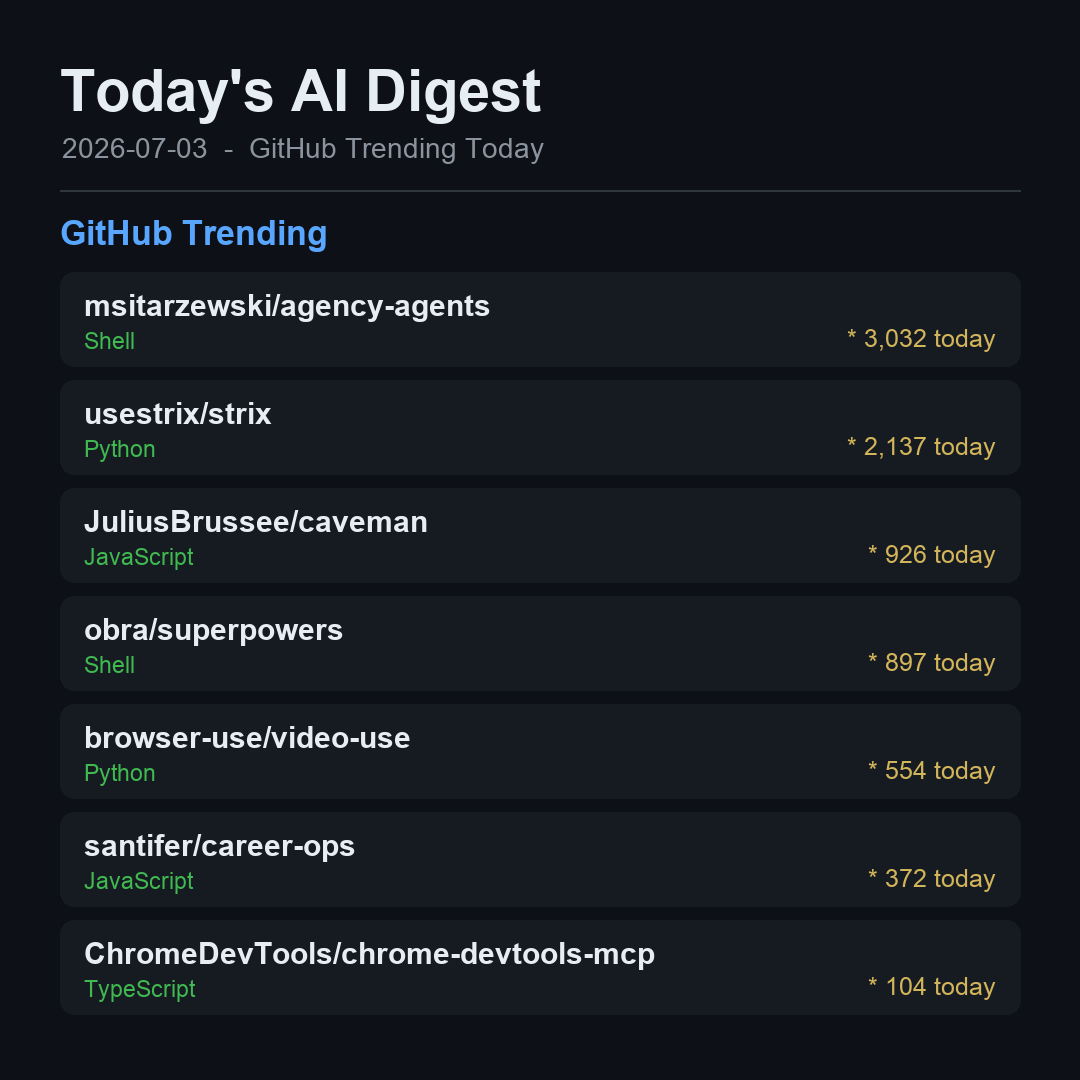
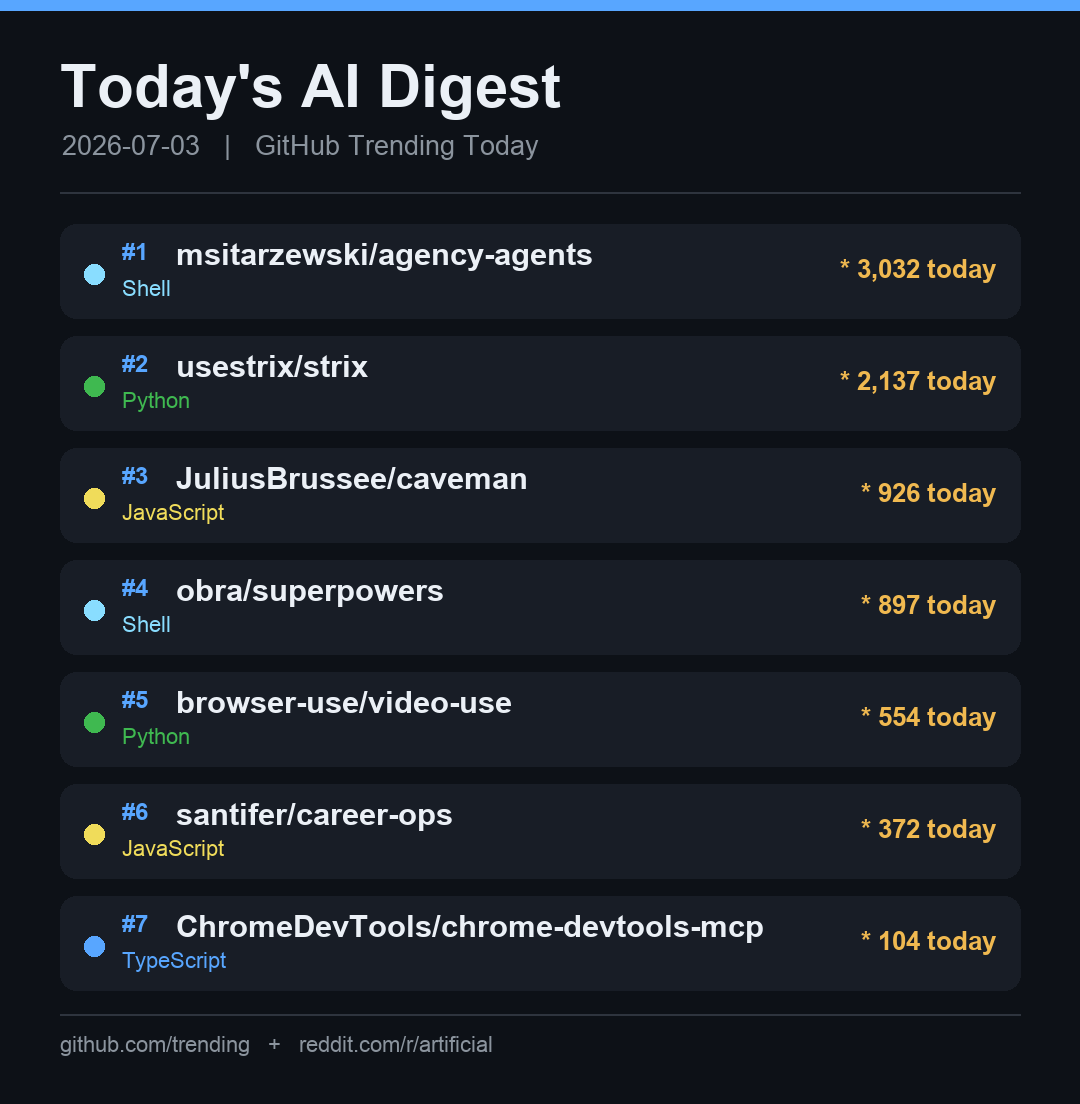
Improve readability: medal-ranked digest, dividers, blockquote, richer card
- Telegram message now uses medals, rule lines, code tags and a blockquote
- Card gets a top accent bar, per-language colour dots and rank badges
- Regenerate preview image from the actual build_card output

diff --git a/digest.py b/digest.py
@@ -125,30 +125,42 @@ def build_card(repos: list[dict], date_iso: str, path: str = "/tmp/digest_card.p
                 return ImageFont.truetype(c, size)
         return ImageFont.load_default()
 
-    bg, card = (13, 17, 23), (22, 27, 34)
-    accent, green = (88, 166, 255), (63, 185, 80)
-    white, muted, gold = (230, 237, 243), (139, 148, 158), (210, 180, 90)
+    bg, card = (13, 17, 23), (24, 29, 38)
+    accent, gold = (88, 166, 255), (240, 185, 80)
+    white, muted = (235, 240, 246), (139, 148, 158)
+    lang_colors = {
+        "Shell": (137, 221, 255), "Python": (63, 185, 80),
+        "JavaScript": (240, 220, 90), "TypeScript": (88, 166, 255),
+        "Go": (0, 173, 216), "Rust": (222, 165, 132), "C++": (243, 75, 125),
+    }
 
     rows = repos[:7]
-    W = 1080
-    H = 300 + len(rows) * 108
+    W, row_h = 1080, 112
+    H = 250 + len(rows) * row_h + 70
     img = Image.new("RGB", (W, H), bg)
     d = ImageDraw.Draw(img)
 
-    d.text((60, 58), "Today's AI Digest", font=font(58, True), fill=white)
-    d.text((62, 132), f"{date_iso}  -  GitHub Trending Today", font=font(28), fill=muted)
-    d.line((60, 190, W - 60, 190), fill=(48, 54, 61), width=2)
-    d.text((60, 214), "GitHub Trending", font=font(34, True), fill=accent)
+    d.rectangle((0, 0, W, 10), fill=accent)  # top accent bar
+    d.text((60, 52), "Today's AI Digest", font=font(60, True), fill=white)
+    d.text((62, 130), f"{date_iso}   |   GitHub Trending Today", font=font(27), fill=muted)
+    d.line((60, 192, W - 60, 192), fill=(46, 52, 62), width=2)
 
-    y = 272
-    for repo in rows:
-        d.rounded_rectangle((60, y, W - 60, y + 94), radius=14, fill=card)
-        d.text((84, y + 16), repo["full"], font=font(30, True), fill=white)
-        d.text((84, y + 56), repo["lang"] or "-", font=font(23), fill=green)
+    y = 224
+    for i, repo in enumerate(rows, 1):
+        dot = lang_colors.get(repo["lang"], muted)
+        d.rounded_rectangle((60, y, W - 60, y + 94), radius=16, fill=card)
+        d.ellipse((84, y + 40, 104, y + 60), fill=dot)          # language color dot
+        d.text((122, y + 14), f"#{i}", font=font(24, True), fill=accent)
+        d.text((176, y + 12), repo["full"], font=font(31, True), fill=white)
+        d.text((122, y + 52), repo["lang"] or "-", font=font(22), fill=dot)
         tag = f"* {repo['stars_today']} today"
-        tw = d.textlength(tag, font=font(25))
-        d.text((W - 84 - tw, y + 52), tag, font=font(25), fill=gold)
-        y += 108
+        tw = d.textlength(tag, font=font(26, True))
+        d.text((W - 84 - tw, y + 30), tag, font=font(26, True), fill=gold)
+        y += row_h
+
+    d.line((60, y + 6, W - 60, y + 6), fill=(46, 52, 62), width=2)
+    d.text((60, y + 24), "github.com/trending   +   reddit.com/r/artificial",
+           font=font(22), fill=muted)
 
     img.save(path)
     return path
@@ -158,33 +170,47 @@ def build_card(repos: list[dict], date_iso: str, path: str = "/tmp/digest_card.p
 # Message
 # --------------------------------------------------------------------------- #
 def build_message(repos: list[dict], posts: list[dict], date_str: str, lang: str) -> str:
+    """Compose a readable Telegram HTML digest.
+
+    Telegram only supports a small tag set (<b>, <i>, <a>, <code>,
+    <blockquote>), so we lean on medals, rule lines and spacing for structure.
+    """
     def esc(s: str) -> str:
         return html.escape(s, quote=False)
 
-    if lang == "en":
-        h_gh, h_rd, h_note = "GitHub Trending", "Reddit r/artificial", "One-liner"
-    else:
-        h_gh, h_rd, h_note = "GitHub Trending", "Reddit r/artificial", "오늘의 한 줄"
+    ko = lang != "en"
+    medals = ["🥇", "🥈", "🥉", "4️⃣", "5️⃣", "6️⃣", "7️⃣"]
+    div = "━" * 16
+    title = "오늘의 AI 다이제스트" if ko else "Today's AI Digest"
+    sub = "아침 브리핑" if ko else "morning brief"
 
-    lines = [f"<b>☀️ Today's AI Digest — {esc(date_str)}</b>", ""]
+    lines = [f"☀️ <b>{title}</b>", f"<i>{esc(date_str)} · {sub}</i>", ""]
 
-    lines.append(f"<b>🔥 {h_gh}</b>")
-    for i, r in enumerate(repos, 1):
-        meta = " · ".join(x for x in [r["lang"], f"★{r['stars_today']}"] if x)
-        lines.append(f'{i}. <a href="{esc(r["url"])}">{esc(r["full"])}</a> · {meta}')
+    lines += [div, "🔥 <b>GitHub Trending</b>", ""]
+    for i, r in enumerate(repos):
+        badge = medals[i] if i < len(medals) else f"{i + 1}."
+        name = r["full"].split("/")[-1]  # repo name only, for readability
+        lines.append(f'{badge} <a href="{esc(r["url"])}"><b>{esc(name)}</b></a>')
+        meta = [f'<code>{esc(r["lang"])}</code>'] if r["lang"] else []
+        meta.append(f'⭐ <b>{esc(r["stars_today"])}</b>')
+        lines.append("    " + "  ·  ".join(meta))
         if r["desc"]:
-            lines.append(esc(r["desc"]))
-    lines.append("")
+            lines.append(f'    └ {esc(r["desc"])}')
+        lines.append("")
 
-    lines.append(f"<b>💬 {h_rd}</b>")
+    lines += [div, "💬 <b>Reddit r/artificial</b>", ""]
     if posts:
         for p in posts:
-            lines.append(f'• <a href="{esc(p["url"])}">{esc(p["title"])}</a>')
+            lines.append(f'▸ <a href="{esc(p["url"])}">{esc(p["title"])}</a>')
     else:
-        lines.append("수집 실패 — 소스 접근 불가" if lang != "en" else "Fetch failed — source unreachable")
-    lines.append("")
+        lines.append("수집 실패 — 소스 접근 불가" if ko else "Fetch failed — source unreachable")
 
-    lines.append(f"<b>📌 {h_note}</b>")
+    note = "오늘의 한 줄" if ko else "One-liner"
+    if ko:
+        summary = f"오늘 GitHub 트렌딩 {len(repos)}건, r/artificial {len(posts)}건을 추렸어요."
+    else:
+        summary = f"Picked {len(repos)} trending repos and {len(posts)} r/artificial posts today."
+    lines += ["", div, f"📌 <b>{note}</b>", f"<blockquote>{summary}</blockquote>"]
     return "\n".join(lines)
 
 